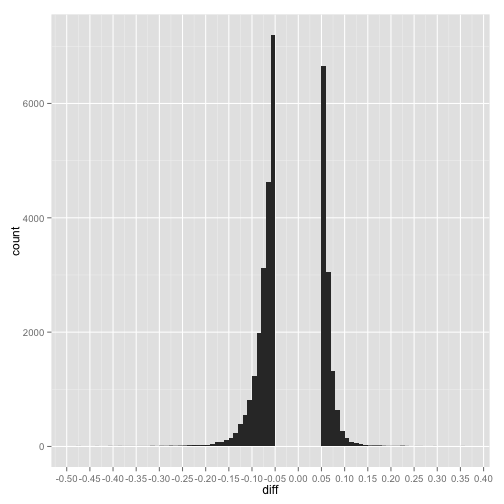
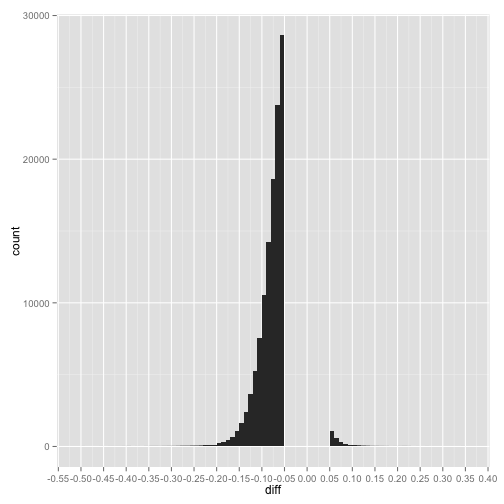
updated to remove normalization

diff --git a/dac_araC_aml/README.md b/dac_araC_aml/README.md
@@ -1,7 +1,7 @@
 Effect of AraC and DAC on AML epigenomes
 ========================================================
 
-This document was last updated at Mon Feb 23 17:17:27 2015 by Tony Hui
+This document was last updated at Tue Feb 24 14:53:37 2015 by Tony Hui
 
 ### If libraries aren't installed, install them first
 
@@ -61,6 +61,7 @@ if (file.exists("methyl_all_Rdata")) {
 
 
 ```r
+#List of the metadata
 subset_meta_clean
 ```
 
@@ -116,6 +117,84 @@ subset_meta_clean
 ## V49    GSM1003882 female  76              mock 989176
 ```
 
+```r
+#Sneak peak of the actual data
+head(all_data) #the head function allows you to look only at the first 6 rows, to give you an idea of what's happening - saves computing resources
+```
+
+```
+##            GSM1003835 GSM1003836 GSM1003837 GSM1003838 GSM1003839
+## cg00000029 0.09770362 0.08138439  0.1205529  0.1522029  0.1379017
+## cg00000108 0.92334093 0.92794232  0.9103985  0.9341260  0.9334861
+## cg00000109 0.88167387 0.88104226  0.8693466  0.8487024  0.8863865
+## cg00000165 0.24567054 0.32602945  0.2770543  0.2762217  0.2867580
+## cg00000236 0.64981141 0.72679873  0.6265281  0.6290299  0.6527885
+## cg00000289 0.60572586 0.64946936  0.5899017  0.5910464  0.6512940
+##            GSM1003840 GSM1003841 GSM1003842 GSM1003843 GSM1003844
+## cg00000029  0.1113193  0.5438691  0.5442738  0.4893308  0.5345305
+## cg00000108  0.9276981  0.9457604  0.9351095  0.9206896  0.9229902
+## cg00000109  0.9199523  0.9036431  0.8789942  0.8649255  0.8646798
+## cg00000165  0.3057312  0.1727575  0.1723752  0.1819357  0.1684314
+## cg00000236  0.7345921  0.8687549  0.8687459  0.8448829  0.8105711
+## cg00000289  0.6400911  0.7534166  0.6971614  0.6985608  0.6391624
+##            GSM1003845 GSM1003846 GSM1003847 GSM1003848 GSM1003849
+## cg00000029  0.4578337  0.5357979  0.3655092  0.4097847  0.3549954
+## cg00000108  0.9471890  0.9507958  0.9265152  0.9401920  0.9116125
+## cg00000109  0.9126546  0.9092872  0.9161088  0.9001012  0.8640296
+## cg00000165  0.1432203  0.1451639  0.2087321  0.2455311  0.1869702
+## cg00000236  0.8632048  0.8783532  0.7973236  0.8193012  0.7863102
+## cg00000289  0.7093994  0.7259917  0.7324086  0.7785059  0.6306634
+##            GSM1003850 GSM1003851 GSM1003852 GSM1003853 GSM1003854
+## cg00000029  0.3940475  0.3303158  0.4097438  0.5665803  0.6762133
+## cg00000108  0.9039871  0.9366198  0.9335556  0.9260097  0.9243585
+## cg00000109  0.8550239  0.8950968  0.9103764  0.9157250  0.8918366
+## cg00000165  0.2365971  0.2010690  0.2284960  0.5797420  0.5984302
+## cg00000236  0.7714201  0.8205036  0.8299365  0.7236037  0.7279613
+## cg00000289  0.6687886  0.6946350  0.7239822  0.7321501  0.7266089
+##            GSM1003855 GSM1003856 GSM1003857 GSM1003858 GSM1003859
+## cg00000029  0.5094310  0.5540379  0.5597647  0.5679505  0.6876582
+## cg00000108  0.8769244  0.8859094  0.9427976  0.9675966  0.9512618
+## cg00000109  0.8844061  0.8375194  0.8989786  0.9141005  0.9230442
+## cg00000165  0.5339080  0.6002981  0.5501785  0.6282725  0.2137327
+## cg00000236  0.6522467  0.6665461  0.7250342  0.7703430  0.9038859
+## cg00000289  0.6519782  0.6261162  0.7531270  0.7705719  0.7359851
+##            GSM1003860 GSM1003861 GSM1003862 GSM1003863 GSM1003864
+## cg00000029  0.7054418  0.4970208  0.4915650  0.6858658  0.6420273
+## cg00000108  0.9492522  0.7621606  0.8653043  0.9500611  0.9528432
+## cg00000109  0.9259927  0.7093359  0.7436197  0.9157322  0.9363831
+## cg00000165  0.2187896  0.2321971  0.2395928  0.2107447  0.1971541
+## cg00000236  0.8920759  0.7184575  0.7399974  0.9090078  0.8995231
+## cg00000289  0.7177719  0.6388473  0.6028262  0.7334017  0.7465076
+##            GSM1003865 GSM1003866 GSM1003867 GSM1003868 GSM1003869
+## cg00000029  0.9100832  0.8694798  0.7772407  0.8380676  0.8830101
+## cg00000108  0.9425785  0.9305893  0.9303567  0.9051529  0.9376853
+## cg00000109  0.9070825  0.9277536  0.8640025  0.8611570  0.9281281
+## cg00000165  0.2076115  0.1847291  0.2266397  0.1878423  0.1984504
+## cg00000236  0.8439385  0.8646058  0.8142227  0.8090898  0.8466210
+## cg00000289  0.7387161  0.7402843  0.7318098  0.6942558  0.7881759
+##            GSM1003870 GSM1003871 GSM1003872 GSM1003873 GSM1003874
+## cg00000029  0.9050922  0.6751064  0.6461420  0.5583681  0.5916006
+## cg00000108  0.9720369  0.9452376  0.9352419  0.8906831  0.8961511
+## cg00000109  0.9426385  0.9382293  0.9198907  0.8258370  0.7959850
+## cg00000165  0.1767423  0.5367246  0.5007469  0.4884229  0.4929143
+## cg00000236  0.8490504  0.8852432  0.8642556  0.8206809  0.8345827
+## cg00000289  0.7396987  0.7939193  0.8106650  0.6910598  0.7201343
+##            GSM1003875 GSM1003876 GSM1003877 GSM1003878 GSM1003879
+## cg00000029  0.6838534  0.6901250  0.6630602  0.6442612  0.5739895
+## cg00000108  0.9405450  0.9387307  0.9164805  0.9374955  0.8918096
+## cg00000109  0.8946916  0.9253815  0.9141626  0.9427712  0.8638737
+## cg00000165  0.5065914  0.4954049  0.1894454  0.1801841  0.1947675
+## cg00000236  0.8916527  0.8818564  0.8693238  0.8816780  0.8662885
+## cg00000289  0.7691863  0.7751595  0.7413030  0.8562813  0.7571723
+##            GSM1003880 GSM1003881 GSM1003882
+## cg00000029  0.6110825  0.5892823  0.6083358
+## cg00000108  0.9236228  0.9304715  0.9613598
+## cg00000109  0.9040147  0.8925043  0.9393362
+## cg00000165  0.2203279  0.1894841  0.2187752
+## cg00000236  0.8743838  0.8769099  0.9187089
+## cg00000289  0.7462470  0.7245192  0.8418942
+```
+
 ### Grab the dataset we're interested in (in this case, when the sample ID is 410324 - we should get 6 samples (2 control, 2 AraC, 2 Dac))
 
 
@@ -136,22 +215,19 @@ dataset_interest_metadata
 ## V7    GSM1003840   male  60              mock 410324
 ```
 
-### Normalize the data and average the control/AraC/Dac replicates
+### Rename the columns to their appropriate sample names (NO MORE NORMALIZATION)
 
 
 ```r
-# normalization
-dataset_interest_normalized <- betaqn(dataset_interest)
-
 # rename columns into appropiate samples
-colnames(dataset_interest_normalized) <- c("arac_1","arac_2","dac_1","dac_2","mock_1","mock_2")
+colnames(dataset_interest) <- c("arac_1","arac_2","dac_1","dac_2","mock_1","mock_2")
 ```
 
 Do a quick plot of the Beta Values to make sure everything is working okay
 
 
 ```r
-dataset_interest_normalized_melt <- melt(dataset_interest_normalized)
+dataset_interest_melt <- melt(dataset_interest)
 ```
 
 ```
@@ -159,7 +235,7 @@ dataset_interest_normalized_melt <- melt(dataset_interest_normalized)
 ```
 
 ```r
-ggplot(dataset_interest_normalized_melt, aes(x=value, fill=variable))+
+ggplot(dataset_interest_melt, aes(x=value, fill=variable))+
   facet_wrap(~variable)+
   geom_density(binwidth=0.05)
 ```
@@ -172,13 +248,13 @@ Average the two replicates for each condition, and compute a "variance" (essenti
 ```r
 # find the averages of each group and store in a new data frame
 data_summary <- data.frame(
-  probe_id = rownames(dataset_interest_normalized),
-  arac_mean= rowMeans(dataset_interest_normalized[,c("arac_1","arac_2")]),
-  arac_variance = abs(dataset_interest_normalized$arac_1-dataset_interest_normalized$arac_2)/2,
-  dac_mean = rowMeans(dataset_interest_normalized[,c("dac_1","dac_2")]),
-  dac_variance = abs(dataset_interest_normalized$dac_1-dataset_interest_normalized$dac_2)/2,
-  mock_mean = rowMeans(dataset_interest_normalized[,c("mock_1","mock_2")]),
-  mock_variance = abs(dataset_interest_normalized$mock_1-dataset_interest_normalized$mock_2)/2
+  probe_id = rownames(dataset_interest),
+  arac_mean= rowMeans(dataset_interest[,c("arac_1","arac_2")]),
+  arac_variance = abs(dataset_interest$arac_1-dataset_interest$arac_2)/2,
+  dac_mean = rowMeans(dataset_interest[,c("dac_1","dac_2")]),
+  dac_variance = abs(dataset_interest$dac_1-dataset_interest$dac_2)/2,
+  mock_mean = rowMeans(dataset_interest[,c("mock_1","mock_2")]),
+  mock_variance = abs(dataset_interest$mock_1-dataset_interest$mock_2)/2
 )
 ```
 
@@ -251,7 +327,7 @@ nrow(dacVScontrol_cutoff_significant)
 ```
 
 ```
-## [1] 352
+## [1] 2082
 ```
 
 Looks like we have 352 CpG's left. We can now do some annotation using the Illumina 450k database. For example, let's see what is avaliable.
@@ -343,143 +419,21 @@ dacVScontrol_annotation <- merge(ensembl_genes, dacVScontrol_cutoff_significant,
 #count the occurances of each ensembl id
 dacVScontrol_annotation_occuranges <- as.data.frame(table(dacVScontrol_annotation$ensembl_id))
 dacVScontrol_annotation_occuranges <- dacVScontrol_annotation_occuranges[order(dacVScontrol_annotation_occuranges$Freq, decreasing=T),]
-dacVScontrol_annotation_occuranges
+
+#see the top 6 genes
+head(dacVScontrol_annotation_occuranges)
 ```
 
 ```
 ##                Var1 Freq
-## 25  ENSG00000104714    7
-## 64  ENSG00000157985    7
-## 98  ENSG00000186487    6
-## 6   ENSG00000068024    4
-## 43  ENSG00000130508    4
-## 1   ENSG00000032389    3
-## 13  ENSG00000080854    3
-## 71  ENSG00000167632    3
-## 99  ENSG00000187537    3
-## 125 ENSG00000266795    3
-## 128 ENSG00000270375    3
-## 130 ENSG00000276399    3
-## 5   ENSG00000066032    2
-## 14  ENSG00000083857    2
-## 16  ENSG00000090920    2
-## 24  ENSG00000104044    2
-## 29  ENSG00000112685    2
-## 33  ENSG00000115705    2
-## 50  ENSG00000145113    2
-## 55  ENSG00000150403    2
-## 58  ENSG00000151962    2
-## 62  ENSG00000155093    2
-## 73  ENSG00000170819    2
-## 74  ENSG00000171045    2
-## 87  ENSG00000182095    2
-## 88  ENSG00000182667    2
-## 90  ENSG00000183169    2
-## 108 ENSG00000218336    2
-## 129 ENSG00000275395    2
-## 2   ENSG00000046774    1
-## 3   ENSG00000049618    1
-## 4   ENSG00000060709    1
-## 7   ENSG00000069998    1
-## 8   ENSG00000072832    1
-## 9   ENSG00000074181    1
-## 10  ENSG00000075886    1
-## 11  ENSG00000077522    1
-## 12  ENSG00000078177    1
-## 15  ENSG00000087258    1
-## 17  ENSG00000100031    1
-## 18  ENSG00000100852    1
-## 19  ENSG00000102572    1
-## 20  ENSG00000102683    1
-## 21  ENSG00000103111    1
-## 22  ENSG00000103227    1
-## 23  ENSG00000103494    1
-## 26  ENSG00000109906    1
-## 27  ENSG00000112562    1
-## 28  ENSG00000112584    1
-## 30  ENSG00000112893    1
-## 31  ENSG00000114251    1
-## 32  ENSG00000114861    1
-## 34  ENSG00000118407    1
-## 35  ENSG00000118596    1
-## 36  ENSG00000123066    1
-## 37  ENSG00000124302    1
-## 38  ENSG00000124490    1
-## 39  ENSG00000125207    1
-## 40  ENSG00000126217    1
-## 41  ENSG00000128578    1
-## 42  ENSG00000130226    1
-## 44  ENSG00000130821    1
-## 45  ENSG00000131018    1
-## 46  ENSG00000137266    1
-## 47  ENSG00000141448    1
-## 48  ENSG00000142611    1
-## 49  ENSG00000143450    1
-## 51  ENSG00000146555    1
-## 52  ENSG00000146648    1
-## 53  ENSG00000147454    1
-## 54  ENSG00000149435    1
-## 56  ENSG00000150893    1
-## 57  ENSG00000151952    1
-## 59  ENSG00000152076    1
-## 60  ENSG00000153303    1
-## 61  ENSG00000153495    1
-## 63  ENSG00000155792    1
-## 65  ENSG00000163032    1
-## 66  ENSG00000163510    1
-## 67  ENSG00000164113    1
-## 68  ENSG00000164330    1
-## 69  ENSG00000164484    1
-## 70  ENSG00000166351    1
-## 72  ENSG00000168412    1
-## 75  ENSG00000171773    1
-## 76  ENSG00000171847    1
-## 77  ENSG00000171853    1
-## 78  ENSG00000172428    1
-## 79  ENSG00000172554    1
-## 80  ENSG00000173876    1
-## 81  ENSG00000175470    1
-## 82  ENSG00000175806    1
-## 83  ENSG00000179023    1
-## 84  ENSG00000180475    1
-## 85  ENSG00000181090    1
-## 86  ENSG00000181867    1
-## 89  ENSG00000183117    1
-## 91  ENSG00000183206    1
-## 92  ENSG00000183580    1
-## 93  ENSG00000183666    1
-## 94  ENSG00000183715    1
-## 95  ENSG00000183826    1
-## 96  ENSG00000184258    1
-## 97  ENSG00000185736    1
-## 100 ENSG00000188185    1
-## 101 ENSG00000188760    1
-## 102 ENSG00000196581    1
-## 103 ENSG00000198033    1
-## 104 ENSG00000204175    1
-## 105 ENSG00000204689    1
-## 106 ENSG00000206474    1
-## 107 ENSG00000215374    1
-## 109 ENSG00000220550    1
-## 110 ENSG00000221900    1
-## 111 ENSG00000224234    1
-## 112 ENSG00000225725    1
-## 113 ENSG00000227888    1
-## 114 ENSG00000229412    1
-## 115 ENSG00000230505    1
-## 116 ENSG00000232397    1
-## 117 ENSG00000233803    1
-## 118 ENSG00000234749    1
-## 119 ENSG00000235441    1
-## 120 ENSG00000235597    1
-## 121 ENSG00000237375    1
-## 122 ENSG00000260807    1
-## 123 ENSG00000261456    1
-## 124 ENSG00000262722    1
-## 126 ENSG00000268982    1
-## 127 ENSG00000269277    1
+## 392 ENSG00000157985   25
+## 381 ENSG00000155093   15
+## 107 ENSG00000104714   13
+## 142 ENSG00000112562   12
+## 212 ENSG00000130508   12
+## 591 ENSG00000186487   12
 ```
 
-Looks like the top three most affected genes are: ENSG00000104714, ENSG00000157985, ENSG00000186487.
+Looks like the top three most affected genes are: ENSG00000157985, ENSG00000155093, ENSG00000104714.
 
 
